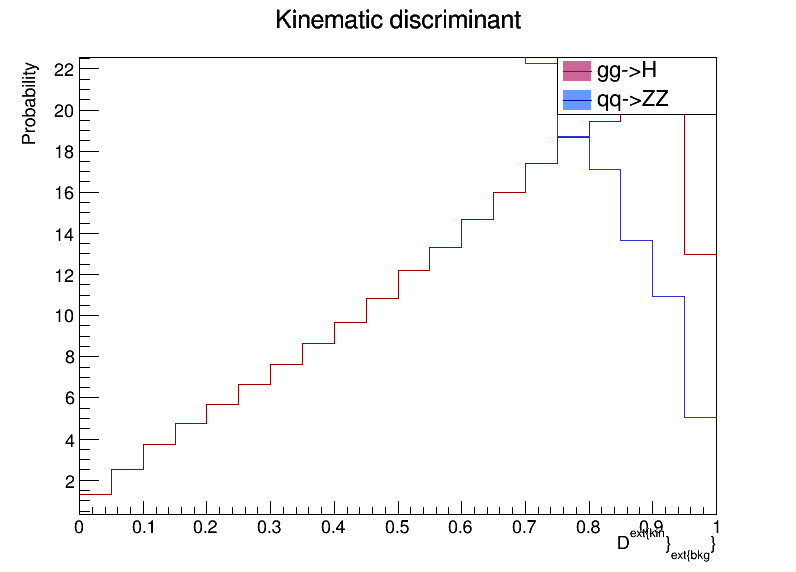
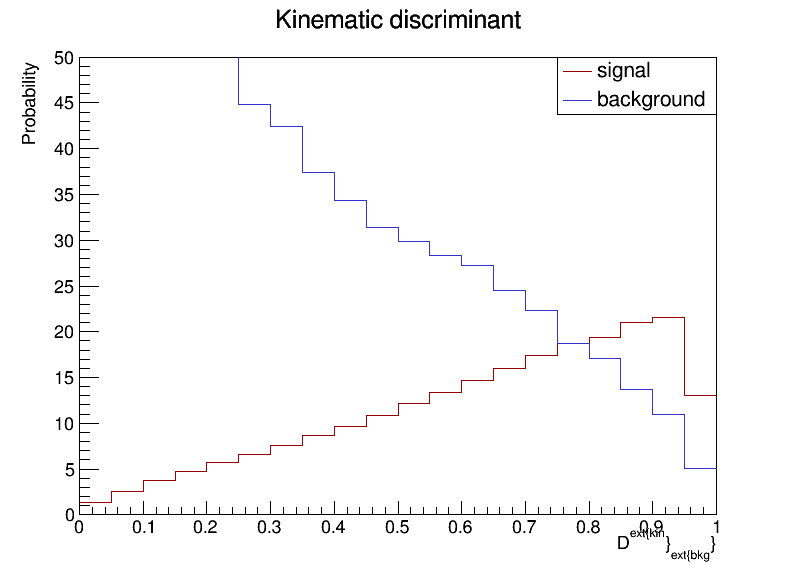
Zad3: pokusaj 2

diff --git a/Vjezbe_7/Analyzer.cpp b/Vjezbe_7/Analyzer.cpp
@@ -342,6 +342,7 @@ void Analyzer::PlotPublicHistograms()
     h_Dkin_sig->SetTitle("Kinematic discriminant");
     h_Dkin_sig->GetXaxis()->SetTitle("D^{\text{kin}}_{\text{bkg}}");
     h_Dkin_sig->GetYaxis()->SetTitle("Probability");
+    h_Dkin_sig->GetYaxis()->SetRangeUser(0.,50.);
     h_Dkin_sig->SetLineColor(kRed+2);
     h_Dkin_sig->Draw("hist");
 
@@ -350,7 +351,7 @@ void Analyzer::PlotPublicHistograms()
 
     leg2->AddEntry(h_Dkin_sig, "signal", "l");
     leg2->AddEntry(h_Dkin_bkg, "background", "l");
-    leg->Draw();
+    leg2->Draw();
 
     c2->SaveAs("KinDiscriminants.png");
 
